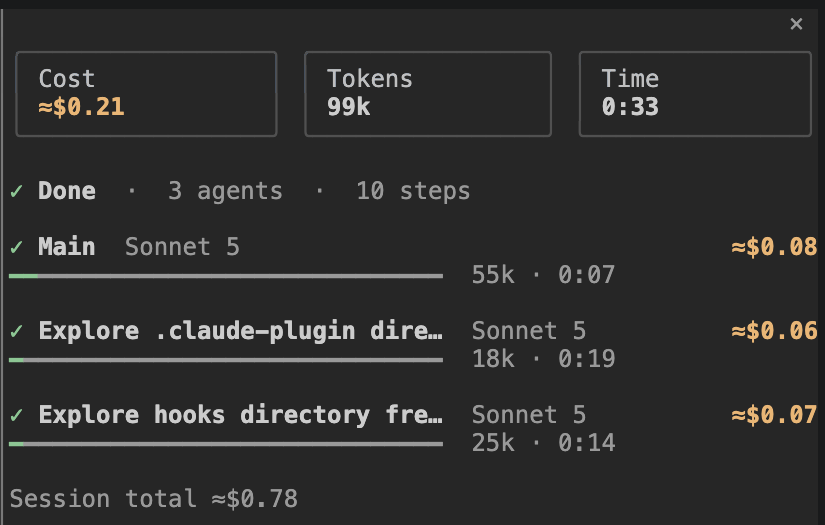
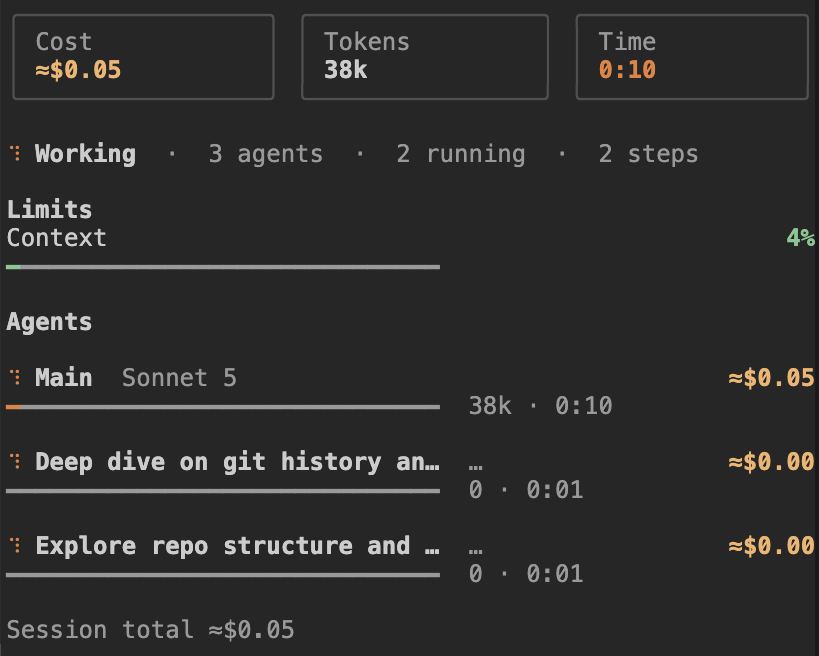
Rewrite READMEs, new screenshots

diff --git a/turn-receipt/README.md b/turn-receipt/README.md
@@ -1,89 +1,44 @@
-# Turn Receipt 🧾
+# turn-receipt 🧾
 
-**An itemized receipt for every Claude Code job.** See where the time and money went (per agent, per tool), the slowest step, the biggest read, files changed and cache hits. Share it with one command.
+After every job, Claude Code prints you a receipt. Which agents ran and what each cost, which tools got used and how long they took, the slowest step, the biggest read, the files it changed, and how much came from cache.
 
-```
-          🧾  CLAUDE CODE RECEIPT
-       #0042 · Mon Oct 19 2026 · 11:42
-════════════════════════════════════════════
-“add tests for the auth module”
-────────────────────────────────────────────
-AGENTS                         time     cost
-Main · Sonnet 5                1:12   ≈$0.31
-Explore auth · Sonnet 5        0:19   ≈$0.07
-Review tests · Sonnet 5        0:24   ≈$0.09
-────────────────────────────────────────────
-TOOLS                  calls   time  ~tokens
-Bash (1✗)                  4   0:41      6k
-Read                      11   0:03     38k
-Edit                       5   0:01      2k
-Grep                       3   0:01      1k
-────────────────────────────────────────────
-🐢 Slowest  Bash: pytest -q             0:31
-🐘 Biggest  Read: auth/crypto.py     12k tok
-✏  Files changed                          3
-     tests/test_auth.py
-     auth/verifier.py
-     auth/config.py
-♻  Cache hit                            82%
-════════════════════════════════════════════
-TOTAL  1:24 · 23 steps                ≈$0.47
-════════════════════════════════════════════
-     Thank you for coding with Claude!
-   turn-receipt · /receipt copy to share
-```
+![receipt](docs/receipt.png)
 
 ## Install
-
-Inside Claude Code:
 
 ```
 /plugin install turn-receipt --marketplace Tejas274/claude-mods
 ```
 
-Answer `y` to add the marketplace, choose **user** scope (all your projects), and restart Claude Code.
+Pick **user** scope, restart Claude Code. Or: `claude plugin marketplace add Tejas274/claude-mods && claude plugin install turn-receipt@claude-mods --scope user`
 
-Or from your terminal:
+## Using it
 
-```bash
-claude plugin marketplace add Tejas274/claude-mods && claude plugin install turn-receipt@claude-mods --scope user
-```
+When a job is done (including any helper agents still running in the background) you'll get a toast like `🧾 Receipt #42 · 1:24 · 23 steps · 3 agents · ≈$0.47`.
 
-## Use it
-
-| You do | You get |
-|---|---|
-| Send Claude any prompt | When the whole job is done (helpers included), a pop-up: `🧾 Receipt #42 · 1:24 · 23 steps · 3 agents · ≈$0.47 → /receipt` |
-| `/receipt` | The full receipt in a panel |
-| `/receipt copy` | The receipt as text on your clipboard, ready for Slack, a PR or a tweet |
+- `/receipt`: open it
+- `/receipt copy`: copy it as plain text, handy for Slack or a PR description
 
 ## What's on it
 
-- **Agents**: every agent (main + helpers) with its model, how long it worked and its share of the cost
-- **Tools**: calls, total time and roughly how much text each tool fed back to Claude (~tokens), slowest first; failed calls marked ✗
-- **🐢 Slowest step** and **🐘 biggest read**: the two things to look at when a job feels slow or expensive
-- **✏ Files changed**: what Claude edited
-- **♻ Cache hit**: how much of the input was served from the prompt cache (higher is cheaper)
-- **Total**: wall time, steps and the job's cost
+- **Agents**: each one, its model, how long it ran, its share of the cost
+- **Tools**: calls, total time, and roughly how much text each tool fed back to Claude. Failed calls are marked in red.
+- **Slowest / Biggest**: usually the first thing worth looking at when a job felt slow or pricey
+- **Files changed**, **cache hit %**, and the **total**
 
-## How the numbers work
+Bookkeeping stuff (spawning helpers, to-do updates) is left out of slowest/biggest so they point at real work.
 
-- **Total cost** is this job's real cost, from the same figures as `/cost` (shown when Claude Code reports a cost).
-- **Per-agent cost** is an estimate (≈): the total split by each agent's share of the work.
-- **~tokens per tool** estimates the size of what each tool returned (about 4 characters per token).
+## Notes
 
-## Privacy
+- The total is the real cost for the job (same source as `/cost`), when Claude Code reports one. Per-agent costs are an estimate.
+- "~tokens" per tool is a rough size estimate (about 4 characters per token).
+- Nothing is sent anywhere. `/receipt copy` only touches your clipboard.
 
-Turn Receipt only reads Claude Code's own session numbers and tool names. The receipt stays on your machine; `/receipt copy` only puts it on your clipboard.
-
-## Develop
+## Hacking on it
 
 ```bash
-claude --plugin-dir ./turn-receipt     # run it; saving a file reloads it
-claude plugin validate turn-receipt
+claude --plugin-dir ./turn-receipt
 claude plugin test turn-receipt
 ```
-
-## License
 
 MIT

diff --git a/README.md b/README.md
@@ -1,69 +1,54 @@
 # claude-mods
 
-**Free, open mods for [Claude Code](https://claude.com/claude-code).** Each one changes how Claude Code looks or works, and installs with one command.
+Little mods I've made for Claude Code. Free to use, MIT licensed.
 
-![Usage Radar](usage-radar/docs/agents-panel.png)
+![Turn Receipt](turn-receipt/docs/receipt.png)
 
-## Mods
+## What's here
 
-| Mod | What it does | Install (inside Claude Code) |
-|---|---|---|
-| [**Usage Radar**](./usage-radar) | Live plan limits (5-hour, weekly) and context with 80% / 95% alerts, plus cost, tokens, timer and a per-agent panel (`/radar`) | `/plugin install usage-radar --marketplace Tejas274/claude-mods` |
-| [**Turn Receipt** 🧾](./turn-receipt) | An itemized receipt for every job: per agent, per tool, slowest step, biggest read, files changed, cache hit. `/receipt` to view, `/receipt copy` to share | `/plugin install turn-receipt --marketplace Tejas274/claude-mods` |
+**[usage-radar](./usage-radar)**: a live readout while Claude works. Model, tokens, cost, a timer, how full the context is, and your 5-hour / weekly limits if your plan reports them. It pops a warning at 80% and 95%. `/radar` opens a panel with every agent and what each one is costing you.
 
-More coming soon.
+**[turn-receipt](./turn-receipt)**: when a job finishes you get a receipt. Which agents ran, how long each took, what they cost, which tools were used, the slowest step, the biggest file read, cache hit rate. `/receipt` to look at it, `/receipt copy` to paste it somewhere.
+
+They work fine together. Radar is for *during*, receipt is for *after*.
 
 ## Install
 
-**Inside Claude Code:** copy the install line from the table. Answer `y` to add the marketplace, choose **user** scope, and restart Claude Code.
+In Claude Code:
 
-**From your terminal:** add the marketplace once, then install any mod:
+```
+/plugin install usage-radar --marketplace Tejas274/claude-mods
+/plugin install turn-receipt --marketplace Tejas274/claude-mods
+```
+
+Say `y` when it asks to add the marketplace and pick **user** so it's on in every project. Restart Claude Code.
+
+Or from a terminal:
 
 ```bash
 claude plugin marketplace add Tejas274/claude-mods
-claude plugin install usage-radar@claude-mods
+claude plugin install usage-radar@claude-mods --scope user
+claude plugin install turn-receipt@claude-mods --scope user
 ```
 
-**Update:** run `/plugin`, open **Marketplaces**, and update `claude-mods`.
-**Remove:** `/plugin uninstall <mod-name>`.
+To update later: `/plugin` → Marketplaces → update `claude-mods`. To remove one: `/plugin uninstall <name>`.
 
-## What's a mod?
+You need a recent Claude Code; mods are a new feature.
 
-A mod is a small piece of code that plugs into Claude Code's events: when you send a prompt, when Claude uses a tool, when an agent starts or finishes. It can **watch** them, **change** them, **block** them, or **draw** something new on screen (a status line, a band above the prompt, a side panel, a pop-up).
+## What's a mod, anyway?
 
-Mods only see what Claude Code gives them. Each mod's README says exactly what it reads and whether it sends anything anywhere.
+A small TypeScript file that hooks into Claude Code's events (you sending a prompt, Claude running a tool, an agent finishing) and can watch them, change them, block them, or draw something on screen. These two only watch. Nothing leaves your machine.
 
-## Make your own
+## Making your own
 
-1. Copy [`template/`](./template) and rename it, for example `my-mod/`.
-2. In `my-mod/.claude-plugin/plugin.json`, set `"name": "my-mod"` and a description.
-3. Run it live (saving a file reloads it):
-   ```bash
-   claude --plugin-dir ./my-mod
-   ```
-4. Check it:
-   ```bash
-   claude plugin validate my-mod
-   claude plugin test my-mod
-   ```
-5. Add it to [`.claude-plugin/marketplace.json`](.claude-plugin/marketplace.json) and to the table above.
-6. Publish: `./publish.sh "Add my-mod"`.
+There's a starter in [`template/`](./template). Copy it, rename it, change the name in `.claude-plugin/plugin.json`, then:
 
-## Repo layout
-
-```
-claude-mods/
-├── .claude-plugin/marketplace.json   ← the list of mods
-├── usage-radar/                      ← one folder per mod
-├── template/                         ← starting point for a new mod
-├── publish.sh                        ← validate + commit + push
-└── README.md
+```bash
+claude --plugin-dir ./my-mod      # reloads every time you save
+claude plugin validate my-mod
+claude plugin test my-mod
 ```
 
-## Contributing
+When it works, add it to `.claude-plugin/marketplace.json` and run `./publish.sh "add my-mod"`.
 
-Ideas, bugs and new mods are welcome: open an issue or a pull request.
-
-## License
-
-[MIT](LICENSE): free to use, change and share.
+Issues and PRs welcome.

diff --git a/usage-radar/README.md b/usage-radar/README.md
@@ -1,77 +1,51 @@
-# Usage Radar
+# usage-radar
 
-**Know how close you are to your limits, before you hit them.** Live plan limits, context fill, cost, tokens and every agent, right inside Claude Code.
+I kept running out of context (and hitting the 5-hour limit) without seeing it coming, so I built this. It sits above the prompt and shows what's going on while Claude works.
 
-![Usage Radar band above the prompt](docs/band.png)
-
-![Usage Radar panel](docs/agents-panel.png)
+![band](docs/band.png)
 
 ## Install
-
-Inside Claude Code:
 
 ```
 /plugin install usage-radar --marketplace Tejas274/claude-mods
 ```
 
-Answer `y` to add the marketplace, choose **user** scope (all your projects), and restart Claude Code.
+Pick **user** scope, restart Claude Code. Or: `claude plugin marketplace add Tejas274/claude-mods && claude plugin install usage-radar@claude-mods --scope user`
 
-Or from your terminal:
+## What it shows
 
-```bash
-claude plugin marketplace add Tejas274/claude-mods && claude plugin install usage-radar@claude-mods --scope user
-```
+Above the prompt: model, tokens, cost, elapsed time, what Claude is doing right now, and meters for context and (if your plan reports them) the 5-hour and weekly limits.
 
-## What you get
+A toast when any meter crosses 80% and again at 95%, once each. For context it'll nudge you to `/compact`.
 
-| Where | What it shows |
-|---|---|
-| **Band above the prompt** | Model · tokens · cost · timer, a to-do / context bar, what Claude is doing now, and live meters: **5h limit**, **Weekly**, **Context** |
-| **Alerts** | A pop-up the moment a meter crosses **80%** (⚠) and **95%** (⛔), once each, with the reset time. Context alerts suggest `/compact` |
-| **Status line** | One line with the meter that's closest to full: `⠹ Sonnet 5 · 94k · ≈$0.41 · 5h limit 83% · Bash: npm test · 0:42` |
-| **Radar panel** (`/radar`) | Cost, tokens and time for the job · every limit with a bar and "resets in 2h 10m" · one row per agent (main + helpers) with model, context, time and cost |
-| **Done pop-up** | `✓ All done in 1:24 · 3 agents · 14 steps · ≈$0.53` when the whole job, helpers included, is finished |
+The status line gets a one-line version with whichever meter is closest to full.
 
-The panel opens by itself when Claude starts a helper agent. On a wide window (110+ columns, fullscreen mode) it docks on the right.
+`/radar` opens a panel with the job's cost, tokens and time, the limits with reset times, and one row per agent. It opens by itself when Claude starts a helper agent. On a wide terminal it docks on the right.
 
-## Colours
+![panel](docs/agents-panel.png)
 
-🟢 under 80% · 🟠 80–95% · 🔴 95% and over
+## Notes on the numbers
 
-## How the numbers work
+- Context and limits come straight from Claude Code (same numbers as its own status line). On some accounts, Enterprise for example, the 5h/weekly limits aren't reported, so you'll only see context.
+- The job cost is real (same as `/cost`). The per-agent split is an estimate, hence the ≈.
+- The timer runs until the main agent *and* every helper are done.
 
-- **Limits** (5-hour, weekly, and a gateway spend limit if you have one) and **context** come straight from Claude Code, the same figures as its own status line. Plan limits appear when you're signed in with a subscription.
-- **Cost** is this job's real cost, from the same figures as `/cost`. The panel also shows the session total.
-- **Per-agent cost** is an estimate (≈): the job's cost split by each agent's share of the work.
-- **Time** runs from your prompt until Claude and every helper agent are done.
+It only reads Claude Code's own session data and doesn't send anything anywhere.
 
-## Privacy
-
-Usage Radar only reads Claude Code's own session numbers. It stores nothing outside the session and sends nothing anywhere.
-
-## Uninstall
-
-```
-/plugin uninstall usage-radar
-```
-
-## Develop
+## Hacking on it
 
 ```bash
-claude --plugin-dir ./usage-radar     # run it; saving a file reloads it
-claude plugin validate usage-radar    # check it loads
-claude plugin test usage-radar        # run the tests
+claude --plugin-dir ./usage-radar
+claude plugin test usage-radar
 ```
 
-The code is in [`hooks/register.tsx`](hooks/register.tsx).
+Everything is in `hooks/register.tsx`.
 
 ## Changelog
 
-- **2.0.0**: renamed from savvy-progress; plan limits, context meter and 80% / 95% alerts
-- **1.2.0**: panel sized to fit every agent
-- **1.1.0**: timer covers the whole job, including background helpers; new look
-- **1.0.0**: first release
-
-## License
+- 2.0.0: renamed from savvy-progress; context and plan-limit meters with alerts
+- 1.2.0: panel grows to fit all agents
+- 1.1.0: timer waits for background helpers; new colours
+- 1.0.0: first version
 
 MIT
